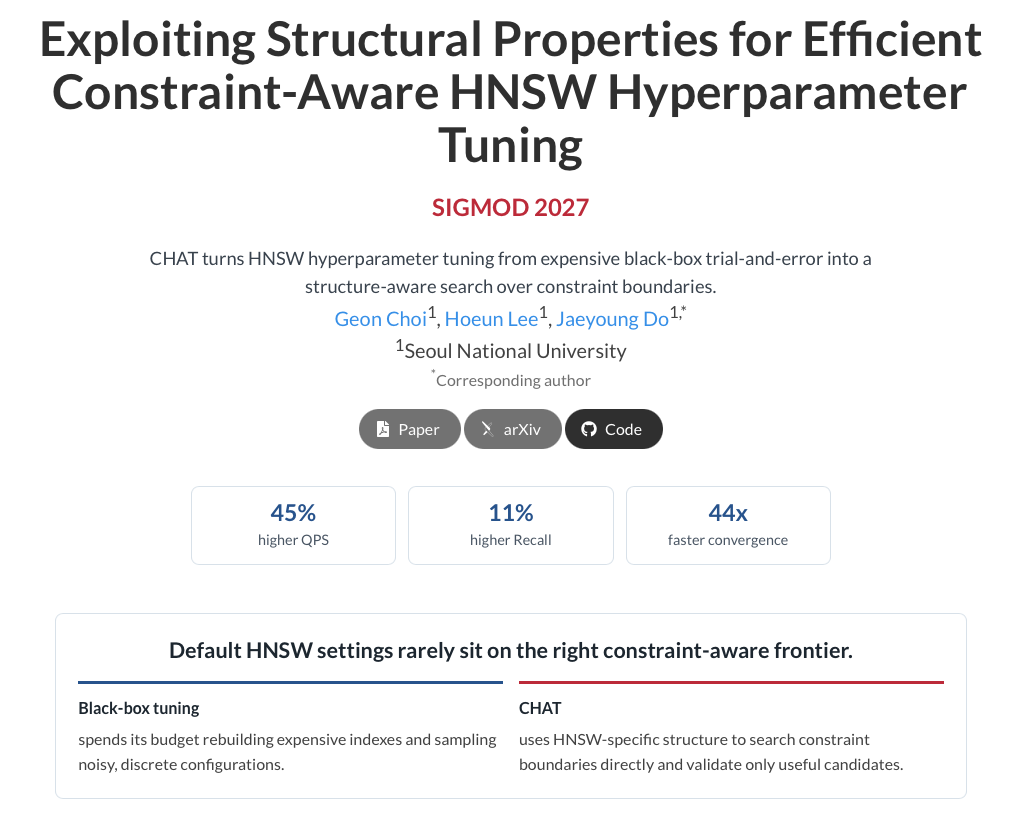
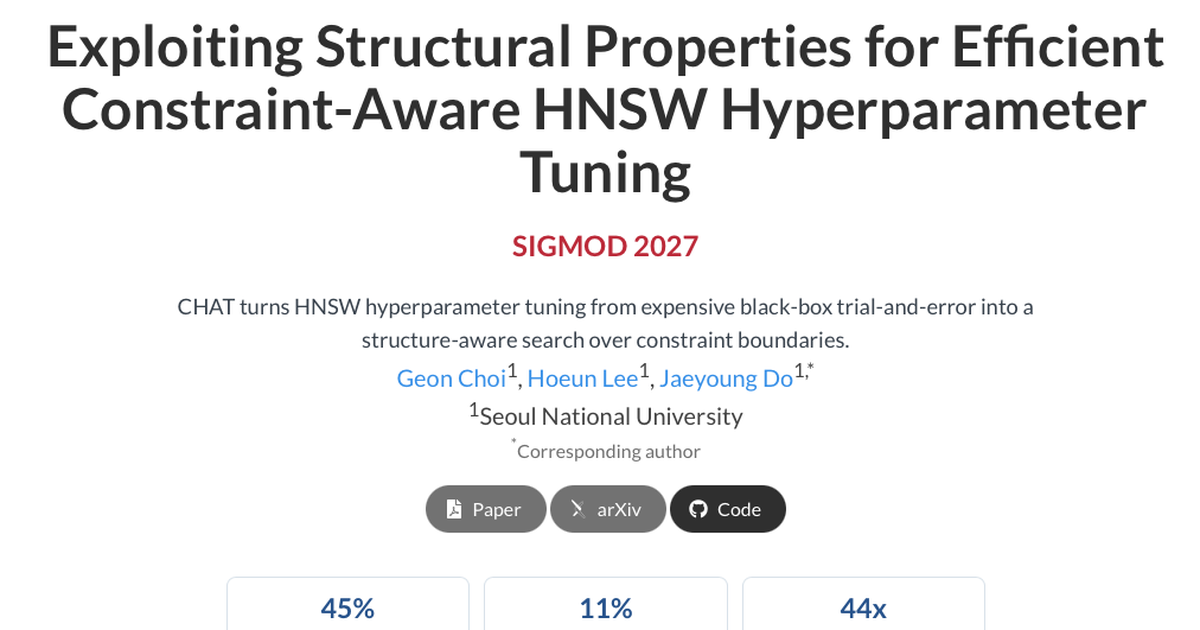
Refresh social preview metadata

Changed region(s): [[0.0613, 0.2413, 0.919, 0.9952], [0.0306, 0.0, 0.9802, 0.2413], [0.6739, 0.6032, 0.7658, 0.6635]]

diff --git a/index.html b/index.html
@@ -11,15 +11,19 @@
   <meta property="og:title" content="Exploiting Structural Properties for Efficient Constraint-Aware HNSW Hyperparameter Tuning">
   <meta property="og:description"
         content="CHAT turns HNSW hyperparameter tuning from expensive black-box trial-and-error into a structure-aware search over constraint boundaries.">
-  <meta property="og:image" content="https://aidaslab.github.io/CHAT/static/images/social_preview.png">
-  <meta property="og:image:width" content="1012">
-  <meta property="og:image:height" content="821">
+  <meta property="og:site_name" content="CHAT">
+  <meta property="og:image" content="https://aidaslab.github.io/CHAT/static/images/social_preview.png?v=20260615">
+  <meta property="og:image:secure_url" content="https://aidaslab.github.io/CHAT/static/images/social_preview.png?v=20260615">
+  <meta property="og:image:width" content="1200">
+  <meta property="og:image:height" content="630">
   <meta property="og:image:alt" content="CHAT project page preview">
   <meta name="twitter:card" content="summary_large_image">
   <meta name="twitter:title" content="Exploiting Structural Properties for Efficient Constraint-Aware HNSW Hyperparameter Tuning">
   <meta name="twitter:description"
         content="CHAT turns HNSW hyperparameter tuning from expensive black-box trial-and-error into a structure-aware search over constraint boundaries.">
-  <meta name="twitter:image" content="https://aidaslab.github.io/CHAT/static/images/social_preview.png">
+  <meta name="twitter:image" content="https://aidaslab.github.io/CHAT/static/images/social_preview.png?v=20260615">
+  <meta name="twitter:image:alt" content="CHAT project page preview">
+  <link rel="image_src" href="https://aidaslab.github.io/CHAT/static/images/social_preview.png?v=20260615">
   <title>Exploiting Structural Properties for Efficient Constraint-Aware HNSW Hyperparameter Tuning</title>
 
   <link rel="preconnect" href="https://fonts.googleapis.com">
